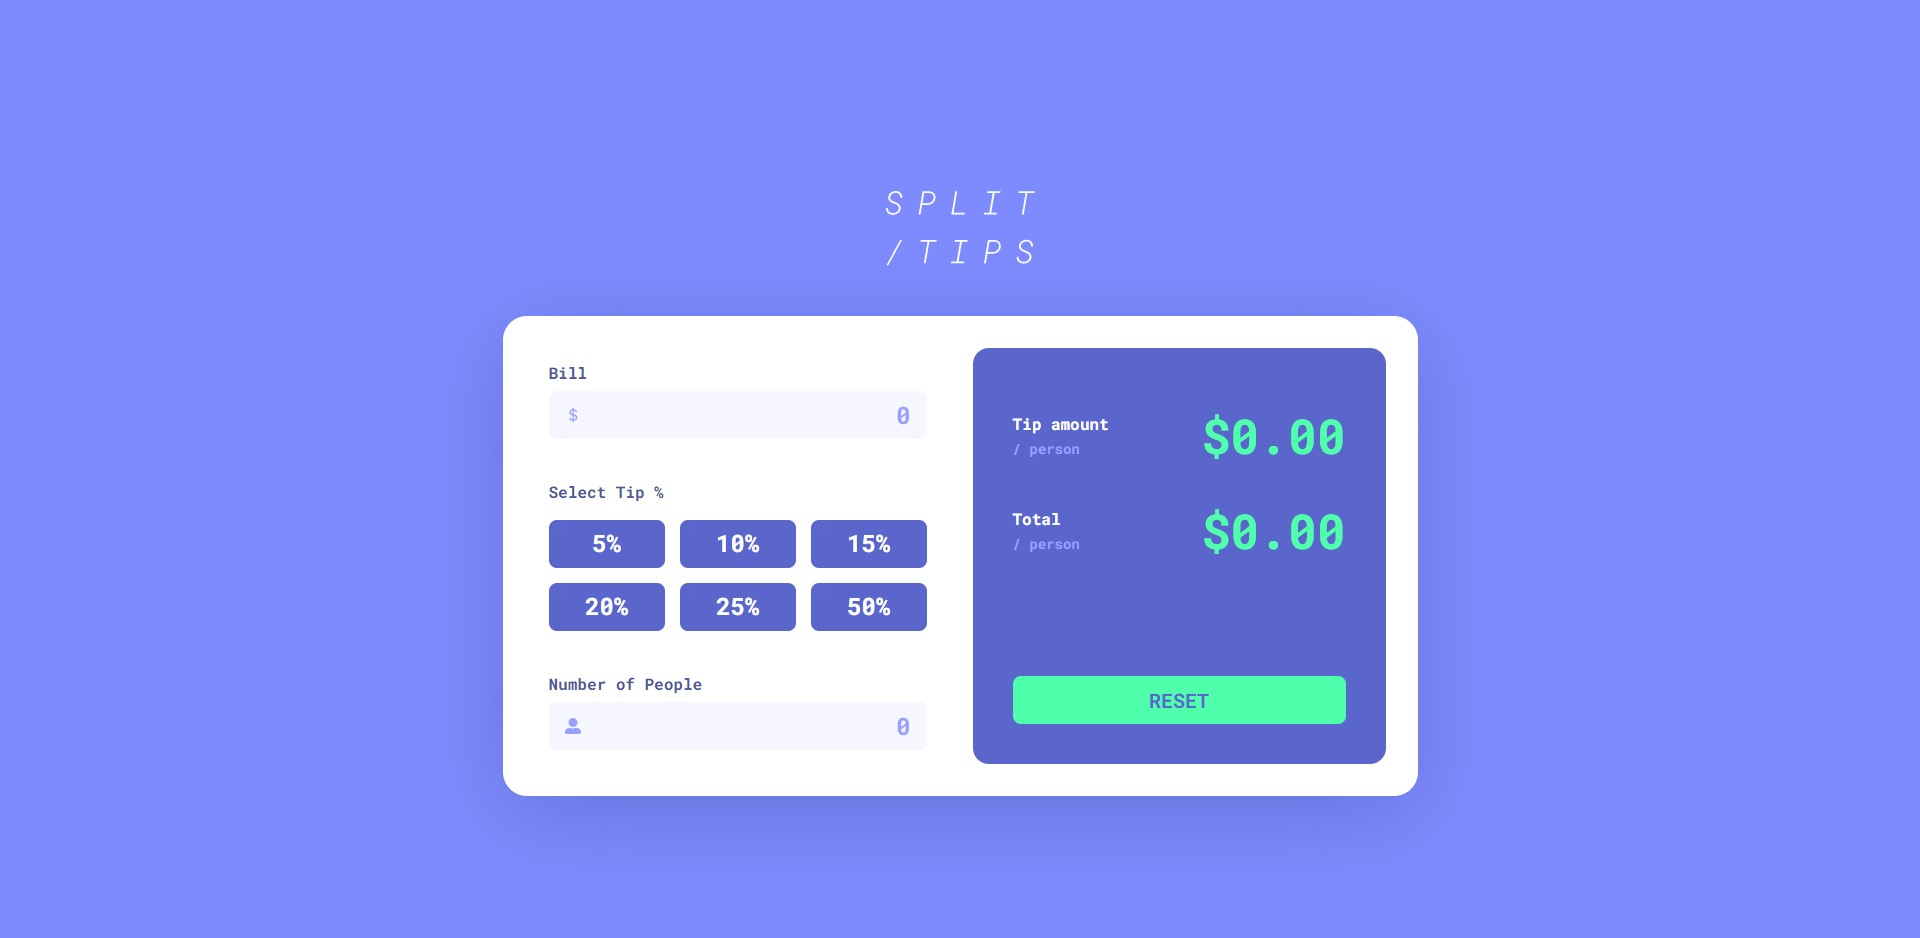
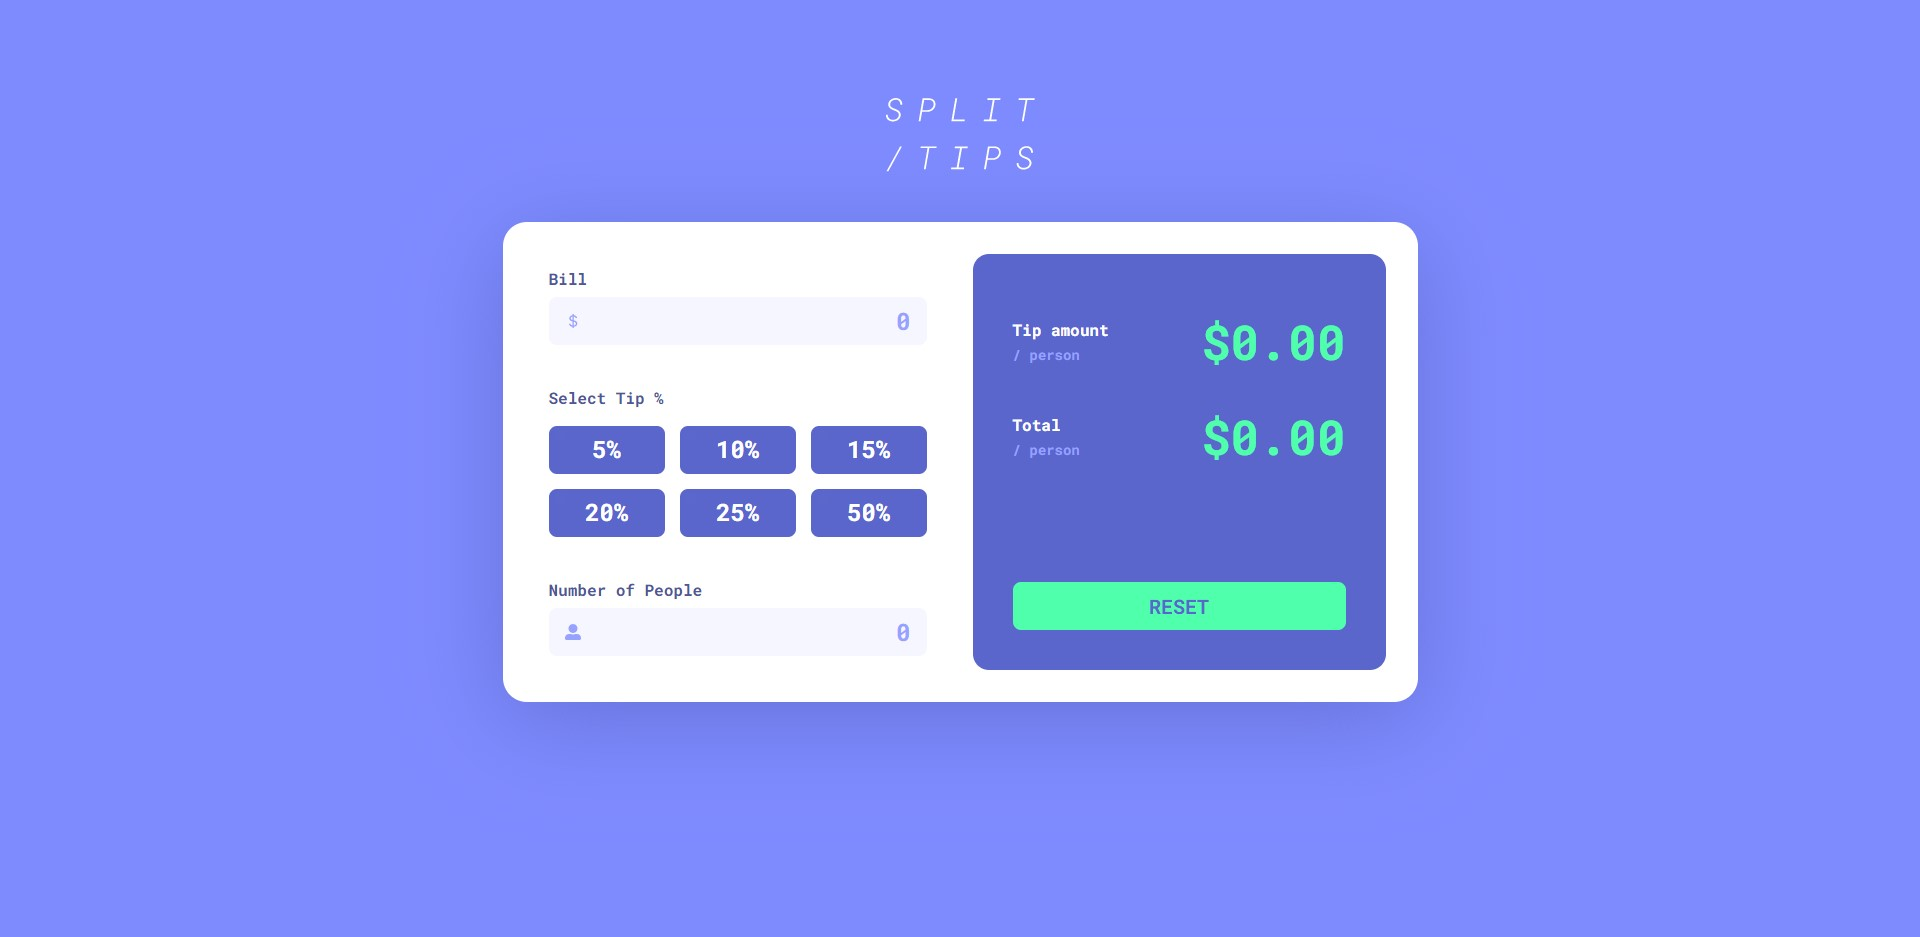
Fix input appearance in Firefox

diff --git a/src/components/AppContainer/AppContainer.module.scss b/src/components/AppContainer/AppContainer.module.scss
@@ -1,40 +1,54 @@
 @import "src/styles/variables";
 @import "src/styles/mixins";
 
-.logo {
-    display: block;
-    width: 15rem;
-    height: auto;
-    margin: 5rem auto 5rem;
-}
-
-.container {
-    max-width: 92rem;
-    height: 48rem;
-    background-color: $mainWhite;
-    display: flex;
-    border-radius: 2.4rem;
-    overflow: hidden;
-    box-shadow: 0 1.8rem 9rem 0 #6672D9;
+.appWrapper {
+    margin-top: 10rem;
 
     @media only screen and (max-width: 930px) {
-        display: block;
-        height: auto;
+        margin-bottom: 5rem;
     }
 
     @media only screen and (max-width: 414px) {
-        border-radius: 2.4rem 2.4rem 0 0;
+        margin-top: 5rem;
+        margin-bottom: 0;
+    }
+
+    .logo {
+        display: block;
+        width: 15rem;
+        height: auto;
+        margin: 0 auto 5rem;
+    }
+
+    .container {
+        max-width: 92rem;
+        height: 48rem;
+        background-color: $mainWhite;
+        display: flex;
+        border-radius: 2.4rem;
+        overflow: hidden;
+        box-shadow: 0 1.8rem 9rem 0 #6672D9;
+
+        @media only screen and (max-width: 930px) {
+            display: block;
+            height: auto;
+        }
+
+        @media only screen and (max-width: 414px) {
+            border-radius: 2.4rem 2.4rem 0 0;
+        }
+    }
+
+    h2 {
+        font-size: $mainTextSize;
+        color: $darkBlueText;
+        margin: 0 0 0.8rem 0;
+    }
+
+    p {
+        font-size: $helperTextSize;
+        color: $darkBlueFields;
+        margin: 0;
     }
 }
 
-h2 {
-    font-size: $mainTextSize;
-    color: $darkBlueText;
-    margin: 0 0 0.8rem 0;
-}
-
-p {
-    font-size: $helperTextSize;
-    color: $darkBlueFields;
-    margin: 0;
-}

diff --git a/src/components/ResultSection/ResultSection.jsx b/src/components/ResultSection/ResultSection.jsx
@@ -5,23 +5,19 @@ const ResultSection = (props) => {
     const [tipAmount, setTipAmount] = useState(0);
     const [total, setTotal] = useState(0);
 
-    function calculateTipAmountAndTotal() {
-        let calculatedTipAmount = props.state.bill / 100 * props.state.tipPercent / props.state.numberOfPeople;
-        let calculatedTotal = props.state.bill / props.state.numberOfPeople + calculatedTipAmount;
-        setTipAmount(calculatedTipAmount.toFixed(2));
-        setTotal(calculatedTotal.toFixed(2));
-    }
-
     useEffect(() => {
         if (props.state.bill !== 0 && props.state.tipPercent !== 0 && props.state.numberOfPeople !== 0) {
-            calculateTipAmountAndTotal();
+            let calculatedTipAmount = props.state.bill / 100 * props.state.tipPercent / props.state.numberOfPeople;
+            let calculatedTotal = props.state.bill / props.state.numberOfPeople + calculatedTipAmount;
+            setTipAmount(calculatedTipAmount.toFixed(2));
+            setTotal(calculatedTotal.toFixed(2));
         } else {
             let defaultTipAmount = 0;
             let defaultTotal = 0;
             setTipAmount(defaultTipAmount.toFixed(2));
             setTotal(defaultTotal.toFixed(2));
         }
-    });
+    }, [props.state.bill, props.state.tipPercent, props.state.numberOfPeople]);
 
     return (
         <section className={styles.container}>

diff --git a/src/components/InputPeople/InputPeople.jsx b/src/components/InputPeople/InputPeople.jsx
@@ -15,10 +15,10 @@ const InputPeople = (props) => {
         <section className={styles.container}>
             <h2>Number of People</h2>
             <div className={styles.inputContainer}>
-                <input type="number" id="amount" name="amount" placeholder="0" value={num}
+                <input type="text" pattern="[0-9]" id="amount" name="amount" placeholder="0" value={num}
                        onChange={event => {props.handlePeopleChange(event.target.value)}}
                        onKeyDown={blockInvalidChar} />
-                <img src={props.icon}/>
+                <img src={props.icon} alt="people"/>
             </div>
         </section>
     );

diff --git a/src/components/InputBill/InputBill.jsx b/src/components/InputBill/InputBill.jsx
@@ -15,10 +15,10 @@ const InputBill = (props) => {
         <section className={styles.container}>
             <h2>Bill</h2>
             <div className={styles.inputContainer}>
-                <input type="number" id="bill" name="bill" placeholder="0" value={bill}
+                <input type="text" pattern="[0-9]" id="bill" name="bill" placeholder="0" value={bill}
                        onChange={event => {props.handleBillChange(event.target.value)}}
                        onKeyDown={blockInvalidChar}/>
-                <img src={props.icon}/>
+                <img src={props.icon} alt="dollar"/>
             </div>
         </section>
     );

diff --git a/src/components/AppContainer/AppContainer.jsx b/src/components/AppContainer/AppContainer.jsx
@@ -1,4 +1,4 @@
-import React, {useEffect, useState} from 'react';
+import React, { useState } from 'react';
 import styles from './AppContainer.module.scss';
 import AdjustmentSection from '../AdjustmentSection/AdjustmentSection';
 import ResultSection from '../ResultSection/ResultSection';
@@ -37,7 +37,7 @@ const AppContainer = () => {
     }
 
     return (
-        <div>
+        <div className={styles.appWrapper}>
             <img src={logo} alt="Logo" className={styles.logo}/>
             <div className={styles.container}>
                 <AdjustmentSection state={state}

diff --git a/src/components/InputBill/InputBill.module.scss b/src/components/InputBill/InputBill.module.scss
@@ -31,11 +31,6 @@
       &::placeholder {
         color: $darkBlueFields;
       }
-      &::-webkit-outer-spin-button,
-      &::-webkit-inner-spin-button {
-        -webkit-appearance: none;
-        margin: 0;
-      }
     }
 
     img {

diff --git a/src/components/InputPeople/InputPeople.module.scss b/src/components/InputPeople/InputPeople.module.scss
@@ -31,11 +31,6 @@
       &::placeholder {
         color: $darkBlueFields;
       }
-      &::-webkit-outer-spin-button,
-      &::-webkit-inner-spin-button {
-        -webkit-appearance: none;
-        margin: 0;
-      }
     }
 
     img {

diff --git a/src/index.scss b/src/index.scss
@@ -19,7 +19,6 @@ body {
   -moz-osx-font-smoothing: grayscale;
   background-color: $backgroundColor;
   font-family: "Roboto Mono", sans-serif;
-  height: 100vh;
   @include flexCenter();
 
   @media only screen and (max-width: 414px) {

diff --git a/README.md b/README.md
@@ -4,7 +4,7 @@
 
 ## Table of contents
 
-* [About "SPLIT /TIPS"](#about-project)
+* [About project](#about-project)
 * [Screenshots](#screenshots)
 * [Technologies](#technologies)
 * [Setup](#setup)
